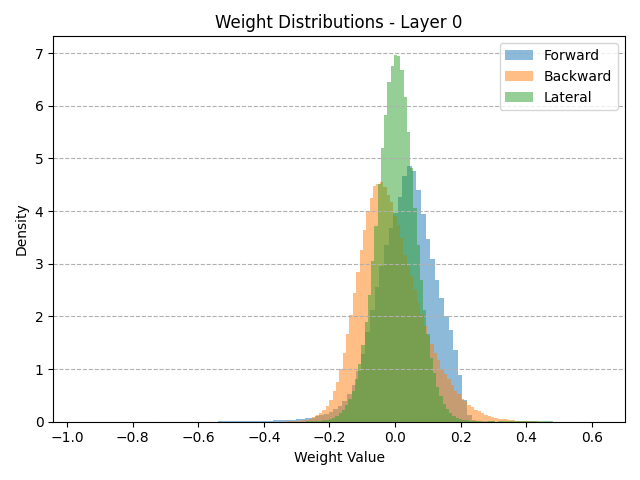
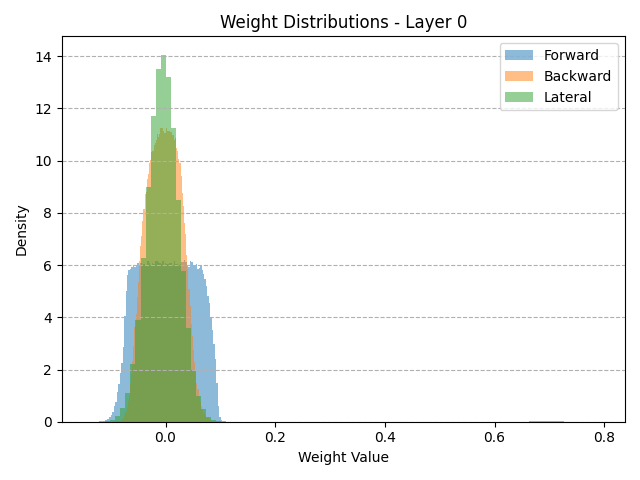
;2 reg

diff --git a/RecurrentFF/model/hidden_layer.py b/RecurrentFF/model/hidden_layer.py
@@ -160,7 +160,8 @@ class HiddenLayer(nn.Module):
 
         # Initialize the lateral weights to be the identity matrix
         self.lateral_linear = nn.Linear(size, size)
-        perturbed_identity_init(self.lateral_linear.weight)
+        # perturbed_identity_init(self.lateral_linear.weight)
+        _custom_init(self.lateral_linear.weight, settings)
         self.lateral_linear = torch.nn.utils.parametrizations.spectral_norm(
             self.lateral_linear)
 
@@ -184,8 +185,23 @@ class HiddenLayer(nn.Module):
         self.param_name_dict = {param: name for name,
                                 param in self.named_parameters()}
 
+        l2_max = 0
+        max_expected_loss = 4
+        percentage_contribution_to_loss = 0.001
+        for param in self.param_name_dict:
+            if "forward" in self.param_name_dict[param] and "weight" in self.param_name_dict[param]:
+                l2_max += torch.norm(param).item()
+            elif "backward" in self.param_name_dict[param] and "weight" in self.param_name_dict[param]:
+                l2_max += torch.norm(param).item()
+
+        # for param in self.param_name_dict:
+        #     if "weight" in self.param_name_dict["lateral_linear.parametrizations.weight.original"]:
+        #         l2_max += param.abs().sum() ** 2
+        self.lambda_l2 = (percentage_contribution_to_loss *
+                          max_expected_loss / l2_max)
+
     def step_learning_rate(self):
-        self.scheduler.step()
+        # self.scheduler.step()
         pass
 
     def _apply(self, fn):
@@ -329,6 +345,16 @@ class HiddenLayer(nn.Module):
         pos_badness = layer_activations_to_badness(pos_activations)
         neg_badness = layer_activations_to_badness(neg_activations)
 
+        l2_penalty = 0
+        for param in self.param_name_dict:
+            if "forward" in self.param_name_dict[param] and "weight" in self.param_name_dict[param]:
+                l2_penalty += torch.norm(param)
+            elif "backward" in self.param_name_dict[param] and "weight" in self.param_name_dict[param]:
+                l2_penalty += torch.norm(param)
+
+        # torch.sum(torch.stack([torch.abs(
+        #     p).sum() for p, name in self.param_name_dict.items() if "weight" in name]))
+
         # Loss function equivelent to:
         # plot3d log(1 + exp(-n + 1)) + log(1 + exp(p - 1)) for n=0 to 3, p=0
         # to 3
@@ -336,7 +362,8 @@ class HiddenLayer(nn.Module):
             (-1 * neg_badness) + self.settings.model.loss_threshold,
             pos_badness - self.settings.model.loss_threshold
         ])).mean()
-        layer_loss.backward()
+        total_loss = layer_loss + self.lambda_l2 * l2_penalty
+        total_loss.backward()
 
         self.optimizer.step()
         return layer_loss

diff --git a/RecurrentFF/analysis/data_pipeline/collect_activations.py b/RecurrentFF/analysis/data_pipeline/collect_activations.py
@@ -7,8 +7,8 @@ from RecurrentFF.util import set_logging
 from RecurrentFF.model.model import RecurrentFFNet
 from RecurrentFF.settings import Settings, DataConfig
 
-TEST_BATCH_SIZE = 1
-NUM_BATCHES = 1000
+TEST_BATCH_SIZE = 1000
+NUM_BATCHES = 1
 
 if __name__ == "__main__":
     settings = Settings.new()
@@ -40,7 +40,7 @@ if __name__ == "__main__":
     model = RecurrentFFNet(settings).to(settings.device.device)
 
     model.load_state_dict(torch.load(
-        "IdentityMoneyball.pth", map_location=settings.device.device))
+        "MNIST_l2_reg_for_back.pth", map_location=settings.device.device))
 
     model.predict(DataScenario.StaticSingleClass,
-                  test_loader, NUM_BATCHES, write_activations=True)
+                  test_loader, NUM_BATCHES, write_activations=False)

diff --git a/RecurrentFF/analysis/matplotlib/plot_weight_distributions.py b/RecurrentFF/analysis/matplotlib/plot_weight_distributions.py
@@ -20,7 +20,8 @@ def plot_weight_distributions(weights_list, labels, title):
 
 
 # Load the weights
-weights = torch.load('IdentityMoneyball.pth', map_location=torch.device('cpu'))
+weights = torch.load('MNIST_l2_reg_for_back.pth',
+                     map_location=torch.device('cpu'))
 
 # Plot the distributions for each layer
 for layer in range(LAYERS):
